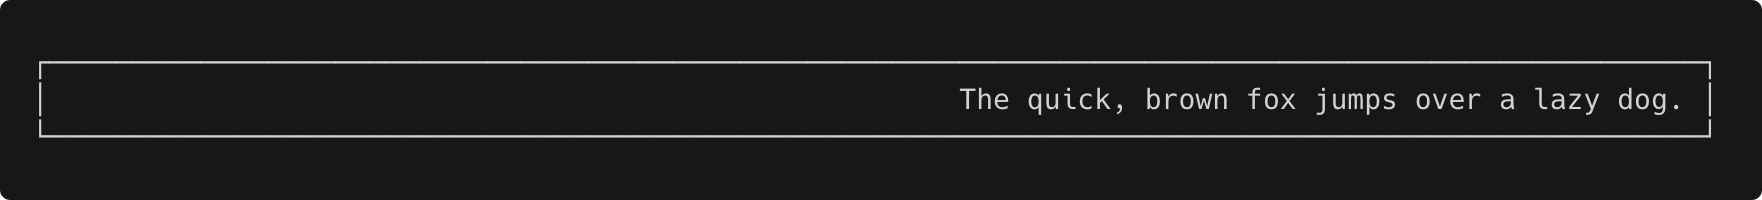
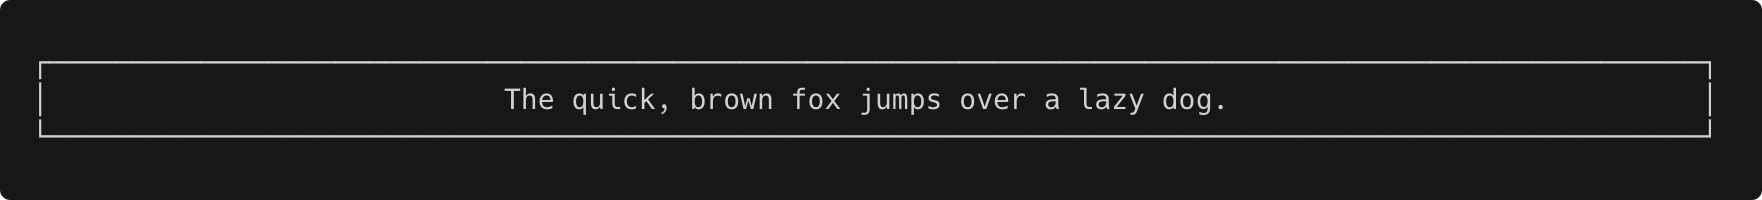
Added heading examples to README

Changed region(s): [[0.2809, 0.42, 0.9677, 0.57]]

diff --git a/README.md b/README.md
@@ -1,6 +1,8 @@
 # Python - CLI Print Tool
 Improve the readability and appearance of your print statements.
 
+---
+
 ## How to get started
 1. Import the `CLIPrintTool` class from `cli_print_tool.py`
 ```python
@@ -25,8 +27,13 @@ CLIPrintTool(120)  # custom max length of 120 characters
 CLIPrintTool().textbox("Hello World!")
 ```
 
+---
+
 ## List of public methods
 1. [Textbox](#textbox)
+2. [Heading](#heading)
+
+---
 
 ## Textbox
 Takes two parameters and print text inside a box.
@@ -65,14 +72,71 @@ CLIPrintTool().textbox("The quick, brown fox jumps over a lazy dog.")
 ```
 ![Screenshot of the console output from the example above.](./examples/textbox-example-1.png)
 #### Example 2
-Print text inside a box and aligned to the right.
-```python
-CLIPrintTool().textbox("The quick, brown fox jumps over a lazy dog.", TextAlignment.right)
-```
-![Screenshot of the console output from the example above.](./examples/textbox-example-2.png)
-#### Example 3
 Print centered text inside a box.
 ```python
 CLIPrintTool().textbox("The quick, brown fox jumps over a lazy dog.", TextAlignment.center)
 ```
+![Screenshot of the console output from the example above.](./examples/textbox-example-2.png)
+#### Example 3
+Print text inside a box and aligned to the right.
+```python
+CLIPrintTool().textbox("The quick, brown fox jumps over a lazy dog.", TextAlignment.right)
+```
 ![Screenshot of the console output from the example above.](./examples/textbox-example-3.png)
+
+---
+
+## Heading
+Takes three parameters and print two texts vertically separated by a line (divider).
+
+### Parameters
+<table>
+    <thead>
+        <tr>
+            <th>Parameter</th>
+            <th>Type</th>
+            <th>Required</th>
+            <th>Default Value</th>
+        </tr>
+    </thead>
+    <tbody>
+        <tr>
+            <td>title</td>
+            <td>String</td>
+            <td>Yes</td>
+            <td>None</td>
+        </tr>
+        <tr>
+            <td>subtitle</td>
+            <td>String</td>
+            <td>Yes</td>
+            <td>None</td>
+        </tr>
+        <tr>
+            <td>alignment</td>
+            <td>TextAlignment</td>
+            <td>No</td>
+            <td>TextAlignment.left</td>
+        </tr>
+    </tbody>
+</table>
+
+### Examples
+#### Example 1
+Print two texts vertically separated by a line (divider) and aligned to the left.
+```python
+CLIPrintTool().heading("This is a Title", "This is a Subtitle")
+```
+![Screenshot of the console output from the example above.](./examples/heading-example-1.png)
+#### Example 2
+Print two texts vertically separated by a line (divider) and centered.
+```python
+CLIPrintTool().heading("This is a Title", "This is a Subtitle", TextAlignment.center)
+```
+![Screenshot of the console output from the example above.](./examples/heading-example-2.png)
+#### Example 3
+Print two texts vertically separated by a line (divider) and aligned to the right.
+```python
+CLIPrintTool().heading("This is a Title", "This is a Subtitle", TextAlignment.right)
+```
+![Screenshot of the console output from the example above.](./examples/heading-example-3.png)
